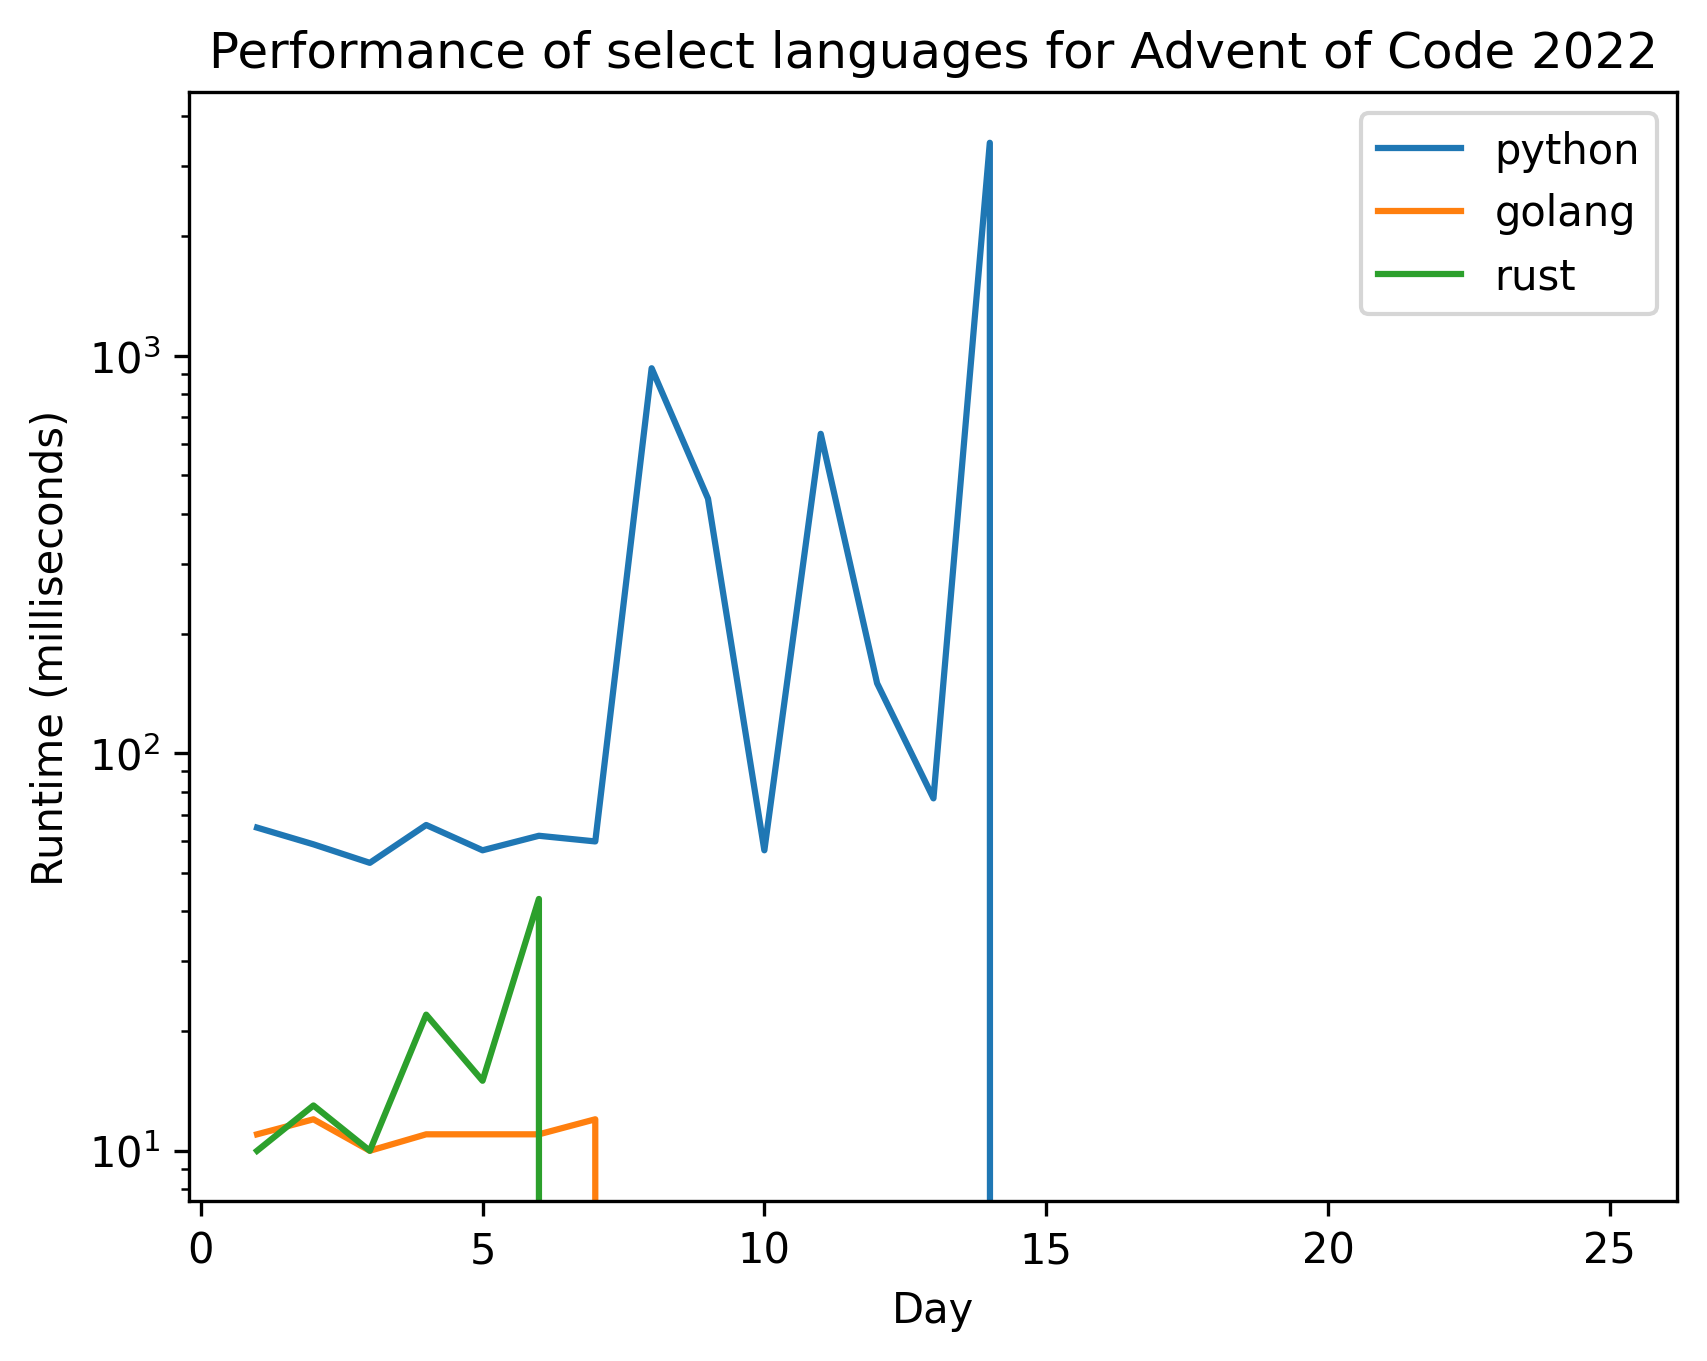
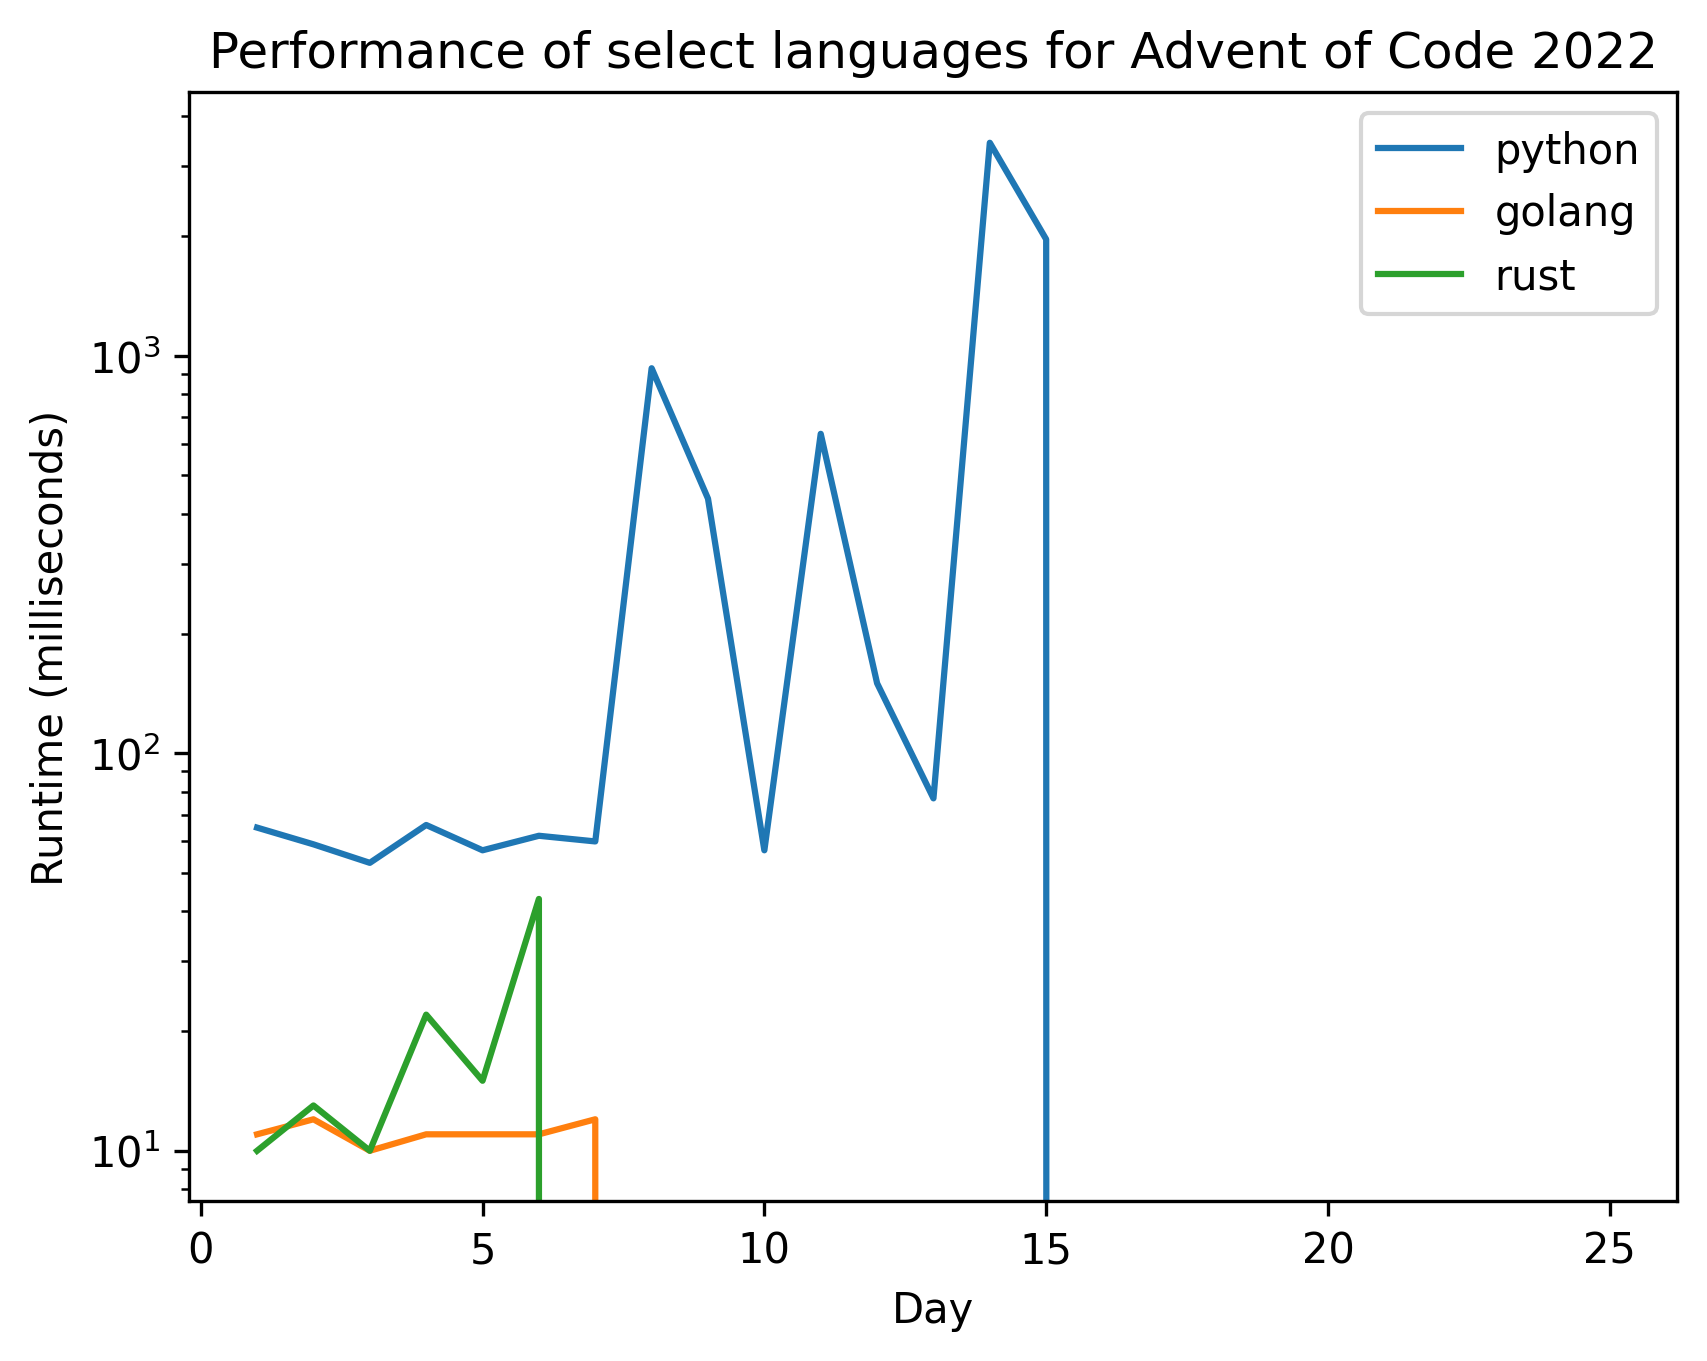
py day 15 done

Changed region(s): [[0.5589, 0.1234, 0.621, 0.8641]]

diff --git a/2022/python/15.py b/2022/python/15.py
@@ -1,0 +1,101 @@
+# integer values only
+# sensors know where the closest beacon is
+# there could be other beacons outside of the radius created by the "closest beacon"
+
+# in the example, at line y=10, there are 26 positions where a beacon cannot exist
+# how many positions in the line y=2,000,000 cannot contain a beacon?
+
+import re
+from scipy.spatial.distance import cityblock
+
+# collect the sensor and beacon locations from the input file
+text = open("../data/15.txt").readlines()
+data = []
+regEx = re.compile(r"Sensor at x=(-?\d+), y=(-?\d+): closest beacon is at x=(-?\d+), y=(-?\d+)")
+for line in text:
+  data.append(regEx.findall(line))
+#print(data)
+
+# we only care about y=2,000,000. Ignore any sensors that can't be in the y=2,000,000 range
+ourY = 2000000
+scannedX = set()
+for sensor in data:
+  sx, sy, bx, by = [int(coord) for coord in sensor[0]]
+  radius = cityblock([sx, sy], [bx, by])
+  ydist = abs(ourY-sy)
+  # if it can't even theoretically reach our y, ignore it
+  if radius < ydist:
+    continue
+  # if it can reach our y, add every possible x that it can reach
+  else:
+    for x in range(sx-(radius-ydist), sx+(radius-ydist)):
+      scannedX.add(x)
+
+# part 1 answer
+print(len(scannedX))
+
+####################### part 2 ##################
+# now we care about the whole grid of 0<=x<=4000000 and 0<=y<=4000000 - 16 trillion squares! 
+# instead of counting the "scanned" squares, we're finding the one "unscanned" square within these parameters
+# conveniently, this lone "unscanned" square must, by definition, be next to the perimeter of at least 1 radius
+# if we only look at these perimeters, we can reduce the number of operations from 16 trillion to something in the millions
+
+# update, I tried the explanation above and collected 89,424,748 possible squares in just under 2 minutes. Still too slow
+
+# I had to google this, but I can further reduce this 89mil by only checking the intersections of different radii (radiuses? idk)
+# each "radius" can be thought of as 4 lines in the terms of y=mx+b. 
+# Because it's a square grid, all of the lines are either parallel or perpendicular to one another
+#  1.1.1.1
+#  .1.1.1.
+#  ..1X1..
+#  .1.1.1.
+#  1.1.1.1
+# in the drawing above, if the 1s are the perimeters and the periods are the internals of two different scanners,
+# then our solution has to be the X tile
+# if 2 lines have the same slope, then we only care if the Y intercepts are within 2 of each other
+# if they're perpendicular, then we have to find their intersection
+# basically, unless they put the X on a perimeter tile (which is unlikely), this X has to live at the intersection of at least 2 scanners, probably 4
+
+# intersections happen at (b-a)/2, (a+b)/2, where a is the positive slope (always +1) and b is the negative slope (always -1)
+
+# positive slopes can be identified by being the connections between the top x left, and the bottom x right
+# topY = sy - sx + radius + 1
+# botY = sy - sx - radius - 1
+# negative slopes can be identified by being the connections between the top x right, and the left x bottom
+# topY = sx + sy + radius + 1
+# botY = sx + sy - radius - 1
+
+aSet = set()
+bSet = set()
+preSolvedSensors = []
+for sensor in data:
+  sx, sy, bx, by = [int(coord) for coord in sensor[0]]
+  radius = cityblock([sx, sy], [bx, by])
+  preSolvedSensors.append([sx, sy, radius])
+
+  # add the positive slopes
+  topY = sy - sx + radius + 1
+  aSet.add(topY)
+  botY = sy - sx - radius - 1
+  aSet.add(botY)
+
+  # add the negative slopes
+  topY = sx + sy + radius + 1
+  bSet.add(topY)
+  botY = sx + sy - radius - 1
+  bSet.add(botY)
+
+# now we brute force these sets (there are only ~3000 permutations, don't worry)
+# for every positive slope
+for a in aSet:
+  # for every negative slope
+  for b in bSet:
+    # build the intercepts
+    xIntercept = (b-a)//2
+    yIntercept = (a+b)//2
+    # if it's outside of every radius
+    if all(cityblock([xIntercept, yIntercept],[sensor[0], sensor[1]])>sensor[2] for sensor in preSolvedSensors):
+      # and if it's in the plane
+      if 0<xIntercept<=4000000 and 0<yIntercept<=4000000:
+        # bingo - part 2 answer
+        print(xIntercept*4000000+yIntercept)

diff --git a/2022/python/14.py b/2022/python/14.py
@@ -88,7 +88,7 @@ for i in range(27000):
     elif caveMap[currPos[0]+1, currPos[1]+1] == 0 and currPos[0] < ceiling:
       currPos[0], currPos[1] = currPos[0]+1, currPos[1]+1
       
-    # if you get here *and* you're blocked, you've hit your resting place. Update the caveMap with currPos and break the whileTrue        
+    # if you get here, you've hit your resting place. Update the caveMap with currPos and break the whileTrue        
     else:
       caveMap[currPos[0], currPos[1]] = 2
       break

diff --git a/2022/README.md b/2022/README.md
@@ -62,5 +62,8 @@ Day 12: shortest path through maze
 Day 13: if/and/or logic with recursion and edge cases
 - I worked with a few packages but ended up sticking with the vanilla option. ast, itertools, etc seemed to have useful tools but none of them were quite right. After I wrote the main logic block, the summation required me to go back to the beginning and turn the input data from a list to a dictionary.
 ***
-Day 14: simple physical simulation, numpy array manipulation
+Day 14: simple physics simulation via numpy array manipulation
 - I'm not exactly proud of this Python implementation. It's very slow and inefficient, but it works. And for this use case, 3-4 seconds isn't a huge deal in terms of speed. I'm going to enjoy coming back with the compiled languages and making a much faster solution with them
+***
+Day 15: geometry, math, no brute force allowed
+- Goodness, that one was tough. Part 1 was easy enough to brute force because it was just one line and it ran in about 1.5 seconds, but part 2 would have been 16 trillion operations! I tried to optimize by working just with the perimeters, but that ended up taking 1.5 minutes just to collect the 89 million edges, much less test them. I eventually gave up on trying to force it, and drew it out on paper. After a bit of googling and drawing, I figured out that the secret was the same concept as "just the edges" but even further, just the intersections. After consulting the internet for intersection math, and treating each "radius" like 4 lines, I was able to drop that 89 million down to a little over 3,000. Even at a very heavy n^2, 3,000 was perfectly fast.
